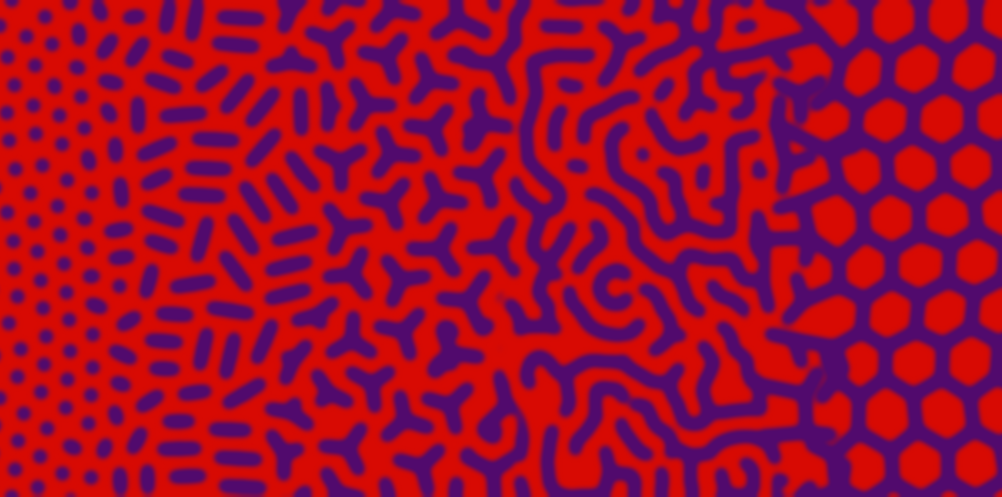
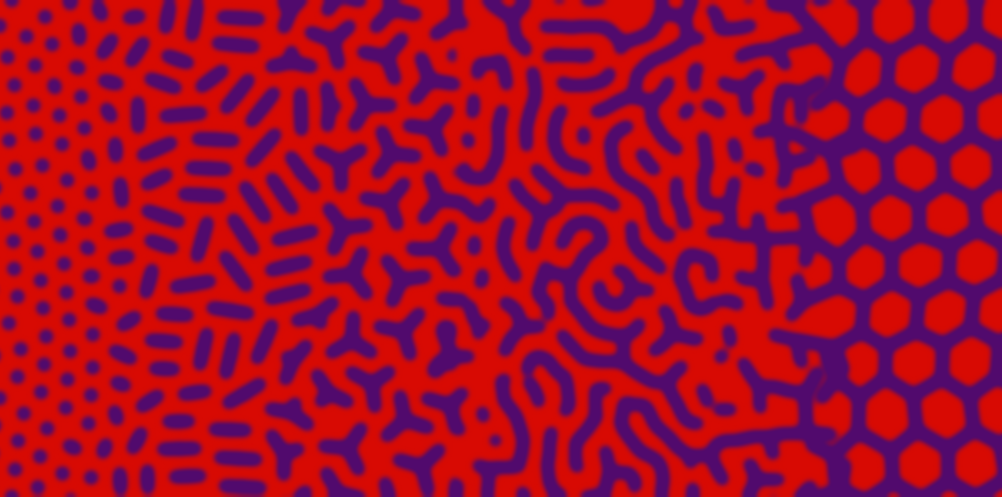
Answer image: continuous Branch -> Gyrus transition
The maze relaxation rate now rises smoothly from 0 (trees kept) to 1 (equal-
spacing maze) along the progression, so Ys bend into grooves in place
instead of switching patchily between two patterns. Old patchy blending is
kept as --blend patchy.

diff --git a/src/pitpattern/figures/make_pit_gyrus_sweep.py b/src/pitpattern/figures/make_pit_gyrus_sweep.py
@@ -83,7 +83,16 @@ def main() -> None:
     ap.add_argument("--arm-len", type=float, default=24.0, help="IV_B arm length (px)")
     ap.add_argument("--villous-area", type=float, default=0.35, help="area per crypt in villous / Branch")
     ap.add_argument("--fork", type=float, default=0.12, help="fork probability per step in gyrus")
-    ap.add_argument("--maze-steps", type=int, default=80, help="Swift-Hohenberg steps for the gyrus maze (0 = off)")
+    ap.add_argument("--maze-steps", type=int, default=100, help="Swift-Hohenberg steps for the gyrus maze (0 = off)")
+    ap.add_argument("--blend", choices=["continuous", "patchy"], default="continuous")
+    ap.add_argument("--m-from", type=float, default=2.2)
+    ap.add_argument("--m-gain", type=float, default=3.0)
+    ap.add_argument("--h-from", type=float, default=3.0)
+    ap.add_argument("--h-gain", type=float, default=1.6)
+    ap.add_argument("--pin", type=float, default=0.15)
+    ap.add_argument("--g-villous", type=float, default=0.0, help="quadratic term at full villous (field method)")
+    ap.add_argument("--g-from", type=float, default=3.0)
+    ap.add_argument("--g-gain", type=float, default=1.2)
     ap.add_argument("--seg-short", type=float, default=1.0, help="maze segment length at gyrus onset (units of D)")
     ap.add_argument("--seg-long", type=float, default=6.0, help="maze segment length just before cuts stop (units of D)")
     ap.add_argument("--cut-until", type=float, default=3.3, help="no cuts beyond this q (long maze into villous)")
@@ -366,11 +375,31 @@ def main() -> None:
         lin = a.maze_r - (1 - K2 / k0 ** 2) ** 2
         dt = 0.3
         den = 1 - dt * (lin - 1)
-        u0 = 2 * cv2.GaussianBlur(field, (0, 0), 2.0) - 1
-        u0 -= cv2.GaussianBlur(u0, (0, 0), D)        # remove the local mean: stripes nucleate in empty red too
-        u = 0.8 * u0 / max(np.abs(u0).max(), 1e-6) + 0.15 * rng.normal(size=u0.shape)
-        for _ in range(a.maze_steps):
-            u = np.fft.ifft2((np.fft.fft2(u) + dt * np.fft.fft2(u - u ** 3 + a.maze_g * u * u)) / den).real
+        qx = q_of(np.arange(Wb, dtype=float))
+        if a.blend == "continuous":
+            # one field for Branch -> Gyrus -> Villous: the relaxation rate m(x) rises from 0
+            # (trees kept) to 1 (equal-spacing maze); towards Villous a pinning h(x) pulls the
+            # same field onto the honeycomb network drawn there.
+            m_x = smooth(a.m_gain * (qx - a.m_from))[None, :]
+            h_x = smooth(a.h_gain * (qx - a.h_from))[None, :]
+            T = 2 * cv2.GaussianBlur(field, (0, 0), 1.5) - 1
+            u0 = 2 * cv2.GaussianBlur(field, (0, 0), 2.0) - 1
+            u0 = u0 - m_x * (1 - h_x) * cv2.GaussianBlur(u0, (0, 0), D)
+            u = u0 + 0.15 * m_x * (1 - h_x) * rng.normal(size=u0.shape)
+            # optional: a quadratic term growing towards Villous turns the maze into a network
+            # of red islands within the same field (labyrinth -> hexagonal islands)
+            g_x = a.g_villous * smooth(a.g_gain * (qx - a.g_from))[None, :]
+            for _ in range(a.maze_steps):
+                u_sh = np.fft.ifft2((np.fft.fft2(u) + dt * np.fft.fft2(u - u ** 3 + a.maze_g * u * u)) / den).real
+                if a.g_villous:
+                    u_sh = u_sh + dt * g_x * u * u
+                u = u + np.maximum(m_x, h_x) * (u_sh - u) + a.pin * h_x * (T - u)
+        else:
+            u0 = 2 * cv2.GaussianBlur(field, (0, 0), 2.0) - 1
+            u0 -= cv2.GaussianBlur(u0, (0, 0), D)        # remove the local mean: stripes nucleate in empty red too
+            u = 0.8 * u0 / max(np.abs(u0).max(), 1e-6) + 0.15 * rng.normal(size=u0.shape)
+            for _ in range(a.maze_steps):
+                u = np.fft.ifft2((np.fft.fft2(u) + dt * np.fft.fft2(u - u ** 3 + a.maze_g * u * u)) / den).real
         thr = np.quantile(u, 1 - a.maze_cover) if a.maze_cover > 0 else 0.0   # 0: zero level
         maze = (u > thr).astype(np.float32)
         maze = cv2.erode(maze, np.ones((2, 2), np.uint8)) if a.maze_cover > 0.5 else maze
@@ -386,7 +415,8 @@ def main() -> None:
         # short -> long maze: cut the centreline at points whose spacing grows with q, leaving a
         # red gap of the Type I width (gap + line width) at every cut
         qx_ = q_of(np.arange(Wb, dtype=float))
-        seg_len = np.where(qx_ < a.cut_until, np.interp(qx_, [2.4, a.cut_until], [a.seg_short, a.seg_long]) * D, np.inf)
+        seg_len = np.where((qx_ < a.cut_until) & (qx_ > 2.3), np.maximum(np.interp(qx_, [2.4, a.cut_until], [a.seg_short, a.seg_long]), 0.5) * D, np.inf)
+        _unused = np.where(qx_ < a.cut_until, np.interp(qx_, [2.4, a.cut_until], [a.seg_short, a.seg_long]) * D, np.inf)
         r_cut = 0.5 * ((D - dot_d) + line_w)
         pts_ = np.argwhere(sk)
         rng.shuffle(pts_)
@@ -409,8 +439,13 @@ def main() -> None:
             for sy in (-Hb, 0, Hb):
                 cv2.circle(mm, (int((x_ + 0.5) * ss), int((y_ + 0.5 + sy) * ss)), int(line_w / 2 * ss), 1, -1)
         maze = cv2.resize(mm.astype(np.float32), (Wb, Hb), interpolation=cv2.INTER_AREA)
-        qx = q_of(np.arange(Wb, dtype=float))
-        wx = smooth(2.0 * (qx - 2.5)) * (1 - smooth(1.6 * (qx - 3.05)))
+        if a.blend == "continuous":
+            act = np.maximum(m_x, h_x)
+            keep = (act < 0.02) | (h_x > 0.98)                 # untouched trees / pure honeycomb
+            field = np.where(np.broadcast_to(keep, field.shape), field, maze)
+            qx = None
+        wx = None if qx is None else smooth(2.0 * (qx - 2.5)) * (1 - smooth(1.6 * (qx - 3.05)))
+    if a.maze_steps > 0 and wx is not None:
         # crisp patchy switch (no semi-transparent ghosting): each region takes one pattern
         noise = cv2.GaussianBlur(rng.random((Hb, Wb)).astype(np.float32), (0, 0), D * 0.6)
         noise = (noise - noise.min()) / (noise.max() - noise.min())
